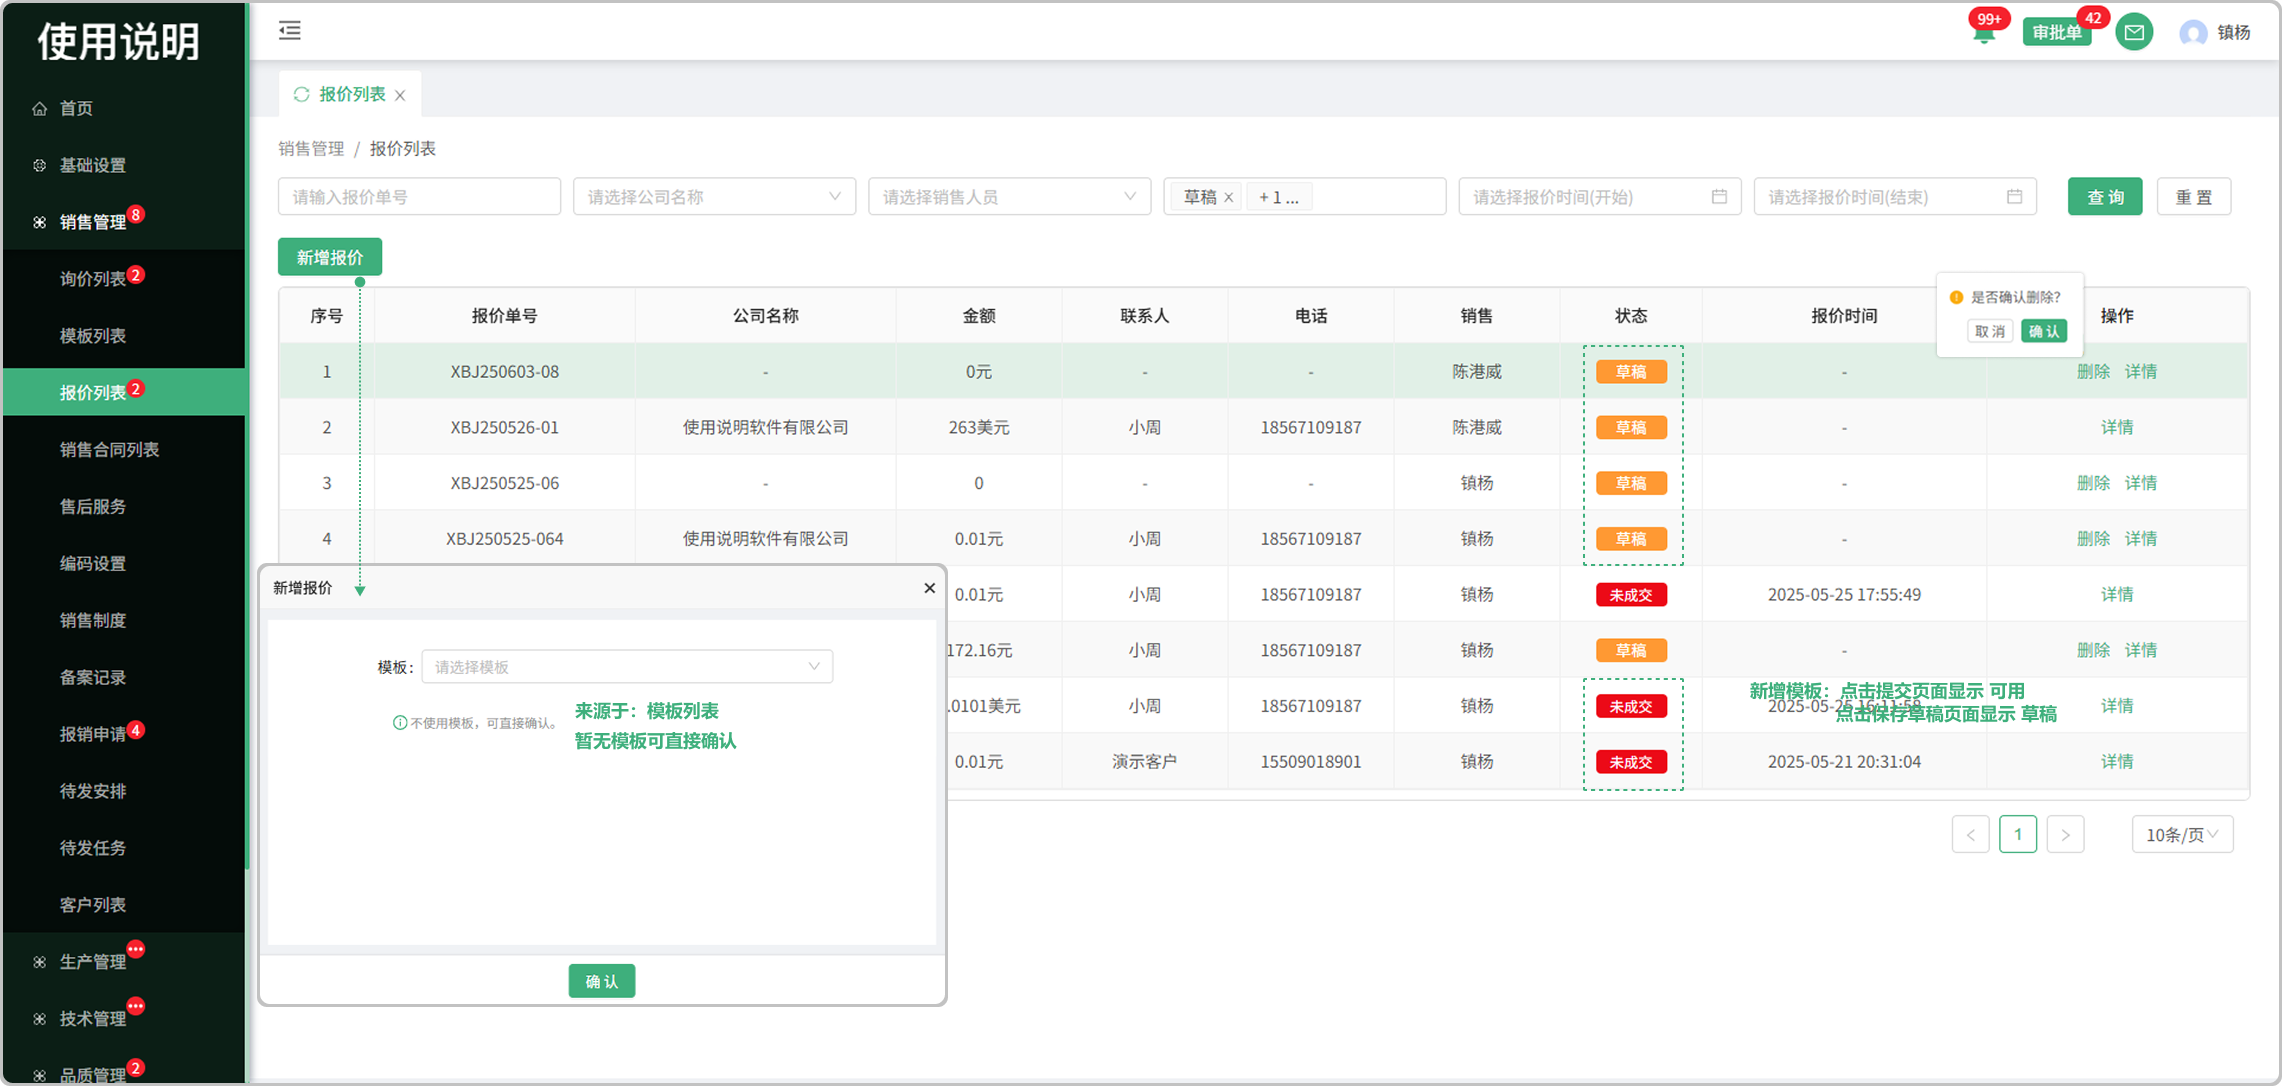
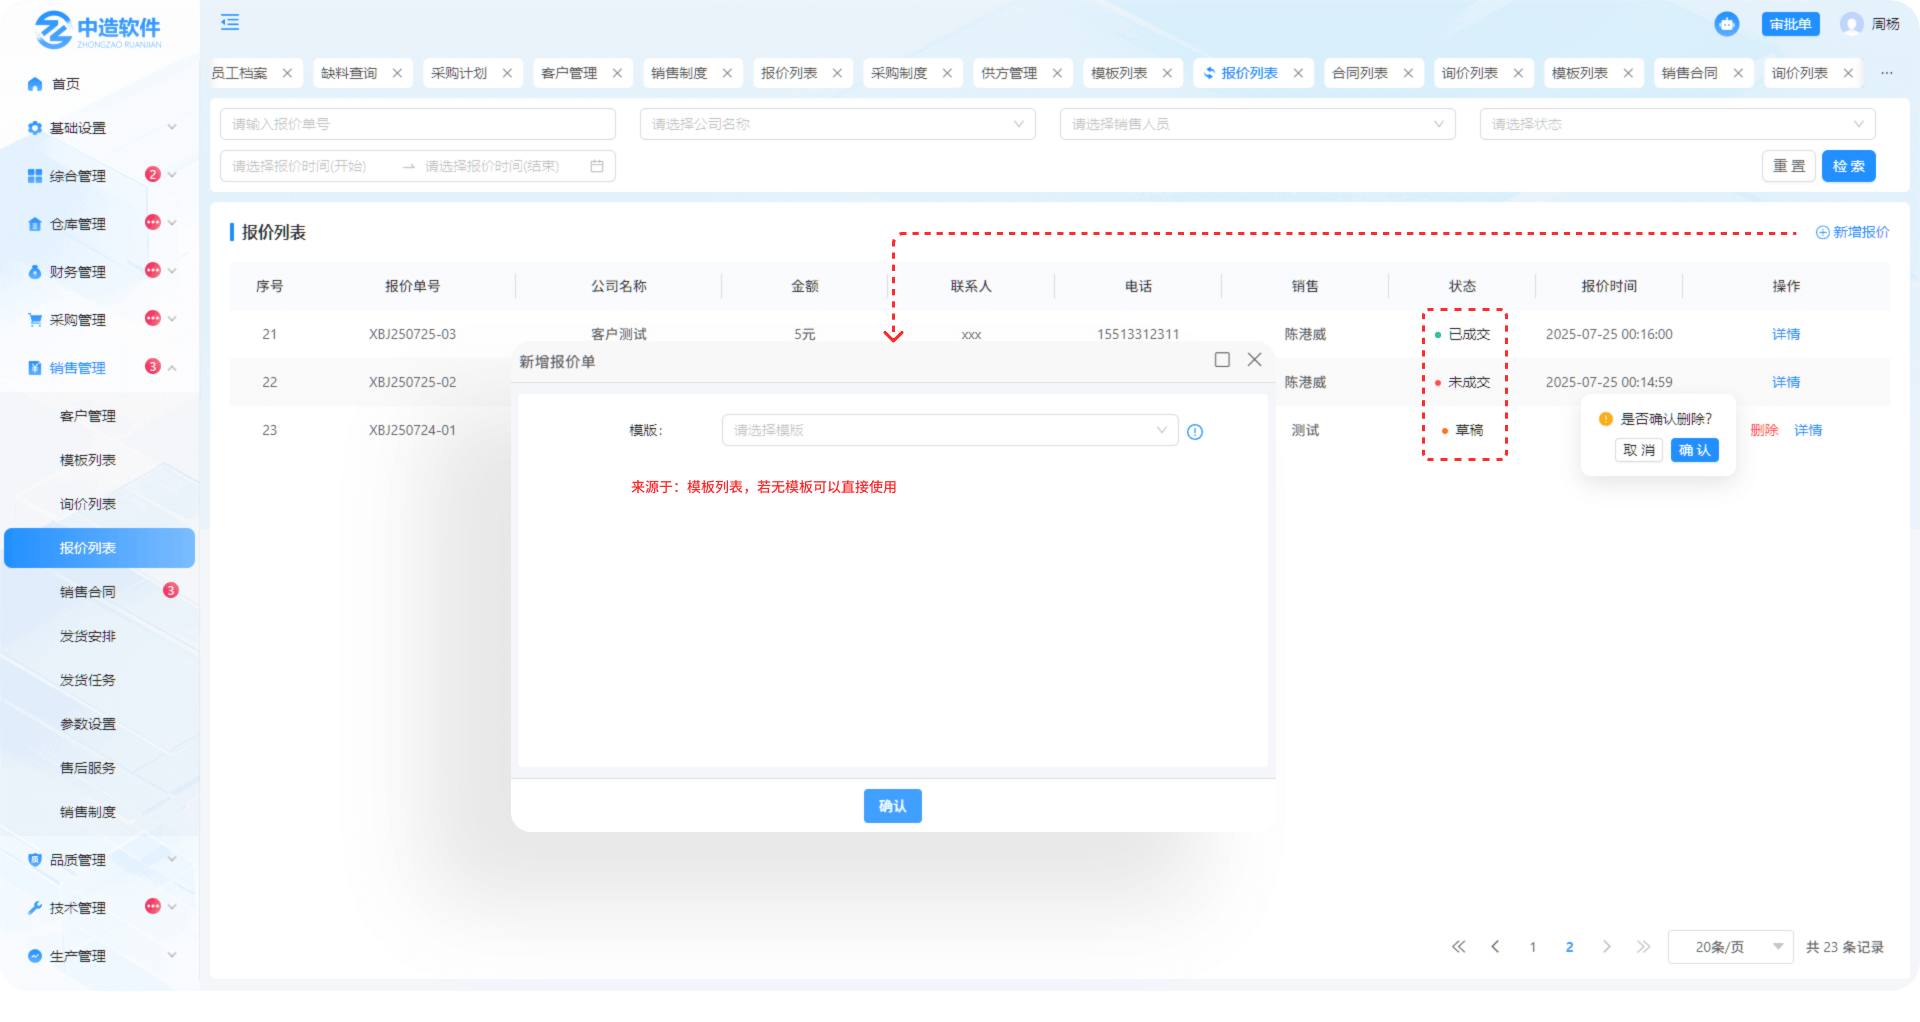
10.23更新

diff --git a/docs/销售管理/报价列表.md b/docs/销售管理/报价列表.md
@@ -8,14 +8,16 @@
   
     -将询价转为报价，报价信息由销售人员编辑
 
-![如图所示](../file/bjlb.png)
 
-#### 2. 保存草稿功能：
 
-* 编辑过程中，可以将报价单暂存下来， 状态是草稿
+#### 2. 状态类型
+* 已成交：客户没时间下单或者客户不想使用系统时，销售人员可以将报价单转为合同，报价单状态变更为已成交
+* 草稿：编辑过程中，可以将报价单暂存下来， 状态是草稿
 
   -销售方发起的报价被退回后，销售报价单变为草稿状态
-
+* 未成交：报价单填写完毕后，可以同步发送给客户查看，状态是未成交
+ 
+  ![如图所示](../file/bjlb.png)
 #### 3. 存为模板功能：
 * 将报价单中，除了产品明细之外的内容，存成模板，供后续使用
 
@@ -45,6 +47,12 @@
 #### 8. 其余功能
 
 * 需方信息：来源于销售管理,客户列表中添加的客户信息
+* 需方联系人：来源于销售管理,客户列表中添加了联系人
+* 语言：可选中文和英文
+* 类型：来源于财务管理,汇率税率列表中添加的汇率税率信息
+* 等级：来源于财务管理,产品等级列表中添加的产品等级信息
+* 选择产品：产品来源于”产品列表“中所添加的产品（可以输入型号创建产品字段）
+* 批量导入：可批量导入产品（先下载模板Excel进行编辑导入即可）
 
 -显示关联图标的代表这个公司有关联的子公司
 
@@ -52,13 +60,9 @@
 
   —使用关联公司时，进行签章时印章使用的为关联公司印章。（关联公司印章也需要设置后对人员进行授权）
 
-* 需方联系人：来源于销售管理,客户列表中添加了联系人
-* 语言：可选中文和英文
-* 类型：来源于财务管理,汇率税率列表中添加的汇率税率信息
-* 等级：来源于财务管理,产品等级列表中添加的产品等级信息
-* 选择产品：产品来源于”产品列表“中所添加的产品（可以输入型号创建产品字段）
+
 * 小眼睛图标：指的是页面中在甲乙方列表中的小眼睛图标，默认全展示，可关闭或者打开（如果关闭对方将无法看到这条信息，包括打印和下载都不展示）
-* 批量导入：可批量导入产品（先下载模板Excel进行编辑导入即可）
+
 * 使用提示：点击使用提示可弹出弹窗，在弹窗中显示动图，可切换查看对应功能的使用（新增字段、批量修改价格、调整宽度、签章显示、签章不显示）
 * 历史报价：跟这个公司销售过这个产品，如果再次报价就会有之前的报价信息
 * 历史成交价：跟这个公司销售过这个产品,成功了以后再次销售会有之前的历史成交价

diff --git a/docs/销售管理/客户列表.md b/docs/销售管理/客户列表.md
@@ -9,7 +9,7 @@
 
    1.首先选择客户名称，客户编号，以及等级以后，填写境内/境外(国内/国外),城市,详细地址
  
-   2.开票信息填写客户税号，开户银行，银行账号，开票电话，备注
+   2.开票信息填写客户税号，开户银行，银行账号，开票电话，其他备注
    
    3.接着添加联系人(可添加多个联系人信息) 
 
@@ -19,24 +19,25 @@
 
   -默认地址开启时收货按这个地址为主
 
+#### 2.编辑
 
-#### 2.详情
+* 在原有客户信息的基础上进行更改
 
-* 如果更改了客户名称会在详情中产生更改记录
+#### 3.拜访
+
+* 填写拜访人员，预计费用，拜访时间，拜访原因提交即可
 
 
 ![如图所示](../file/khlb1.png)
 
+#### 4.详情
 
-#### 3.编辑
-
-* 在原有客户信息的基础上进行更改
-
-#### 4.拜访
-
-* 填写拜访人员，预计费用，拜访时间，拜访原因提交即可
-
+* 如果更改了客户名称则会在详情中产生更改记录
   -拜访的记录可在拜访详情中查看，并输写拜访总结
+
+
+
+
 
 
 ![如图所示](../file/khlb2.png)
